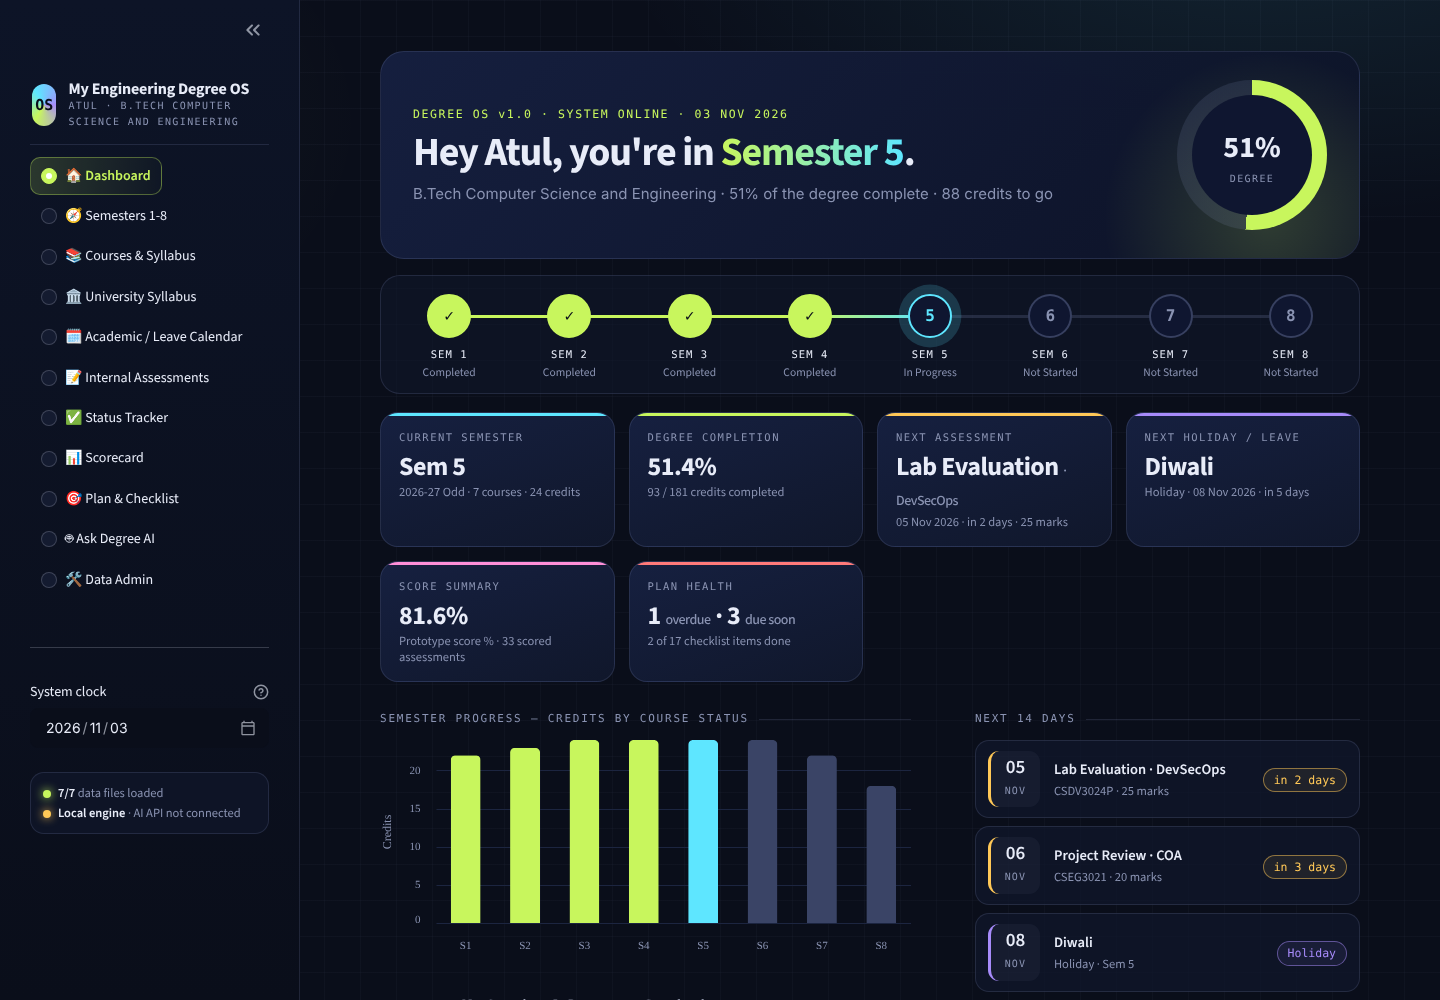
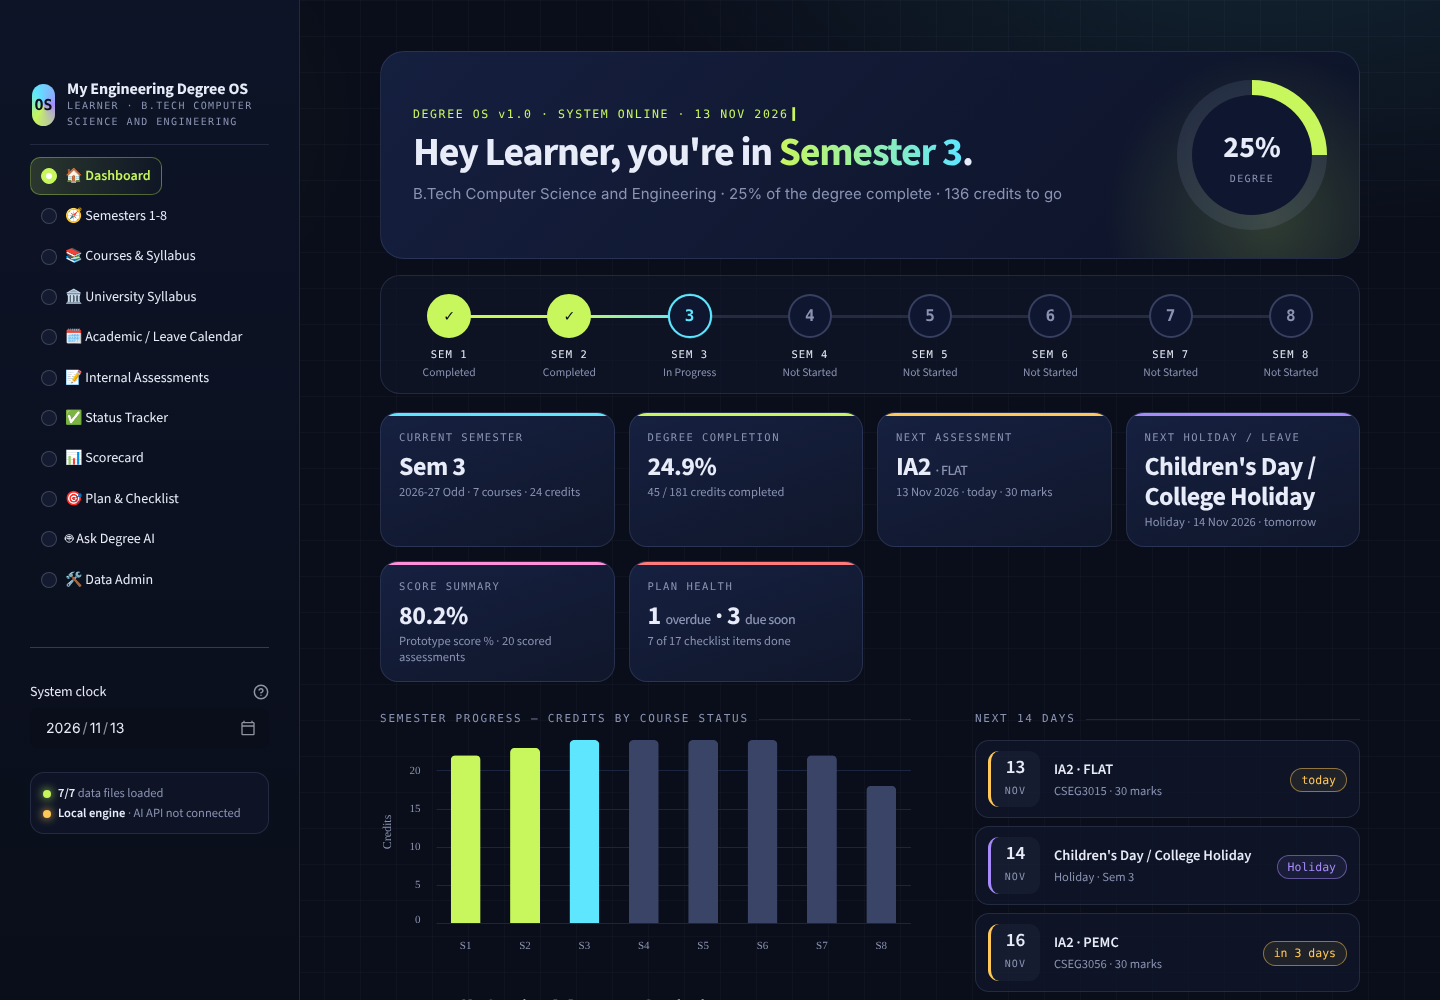
Set current semester to Semester 3
Sem 1-2 completed, Sem 3 in progress with current subjects (CNS, OOAD, PEMC,
FLAT, COA, DevSecOps Lab, Industry Project), Sem 4-8 not started. Calendar,
assessments, scores and checklist remapped; tests re-run.

Claude-Session: https://claude.ai/code/session_01FVvoqNJvPTr259d6cdte1m

diff --git a/app.py b/app.py
@@ -1277,9 +1277,9 @@ def rule_guard(ql: str) -> dict | None:
 
 def ans_help() -> dict:
     return {"text": "I'm **Degree AI** — I answer from your Degree OS data only. Try:\n"
-                    "- *What subjects are left in Sem 5?*\n- *When is my next IA?*\n- *Show my next holiday*\n"
+                    "- *What subjects are left in Sem 3?*\n- *When is my next IA?*\n- *Show my next holiday*\n"
                     "- *What topics are in FLAT?*\n- *What's the status of semester 6?*\n- *What's overdue in my checklist?*\n"
-                    "- *How are my scores in semester 4?*",
+                    "- *How are my scores in semester 2?*",
             "areas": ["General"]}
 
 
@@ -1518,7 +1518,7 @@ def degree_ai(q: str, history: list[dict]) -> dict:
 
 
 SUGGESTIONS = [
-    "What courses are still incomplete in Semester 5?",
+    "What courses are still incomplete in Semester 3?",
     "When is my next internal assessment?",
     "Show my next holiday",
     "What topics are in Data Structures?",

diff --git a/TESTING.md b/TESTING.md
@@ -1,6 +1,6 @@
 # Phase 7 — Test evidence log
 
-Run date: 03 Nov 2026 · Streamlit 1.66.1 · pandas 3.0.5 · Tested with `streamlit.testing.v1.AppTest` and headless Chrome.
+Run date: 13 Nov 2026 (re-run after switching the current semester to Semester 3) · Streamlit 1.66.1 · pandas 3.0.5 · Tested with `streamlit.testing.v1.AppTest` and headless Chrome.
 
 ## Every page once (no crashes)
 
@@ -15,8 +15,8 @@ Run date: 03 Nov 2026 · Streamlit 1.66.1 · pandas 3.0.5 · Tested with `stream
 |---|---|---|---|
 | Course status changed (DevSecOps Lab → Completed) → Status Tracker | Completed 0 · In Progress 7 | Completed 1 · In Progress 6 | ✅ |
 | New holiday added → Calendar | 9 holidays | 10, "Test Fest Holiday" visible | ✅ |
-| New score added (OOAD assignment 10/10) → Scorecard | Sem 5: 78.7%, 33 assessments | Sem 5: 79.4%, 34 assessments | ✅ |
-| Checklist item marked Done → summary | Done 2 · Overdue 1 | Done 3 · Overdue 0 | ✅ |
+| New score added (OOAD assignment 10/10) → Scorecard | Sem 3: 78.7%, 20 assessments | Sem 3: 79.4%, 21 assessments | ✅ |
+| Checklist item marked Done → summary | Done 7 · Overdue 1 | Done 8 · Overdue 0 | ✅ |
 | Course table changes with semester filter | Sem 1: MATH1028, PHYS1019… | Sem 3: CSEG2001, CSEG2002… | ✅ |
 | Semester 1–8 all selectable | — | — | ✅ |
 | Data Admin loads all 7 tables with validation | — | — | ✅ |
@@ -25,15 +25,15 @@ Run date: 03 Nov 2026 · Streamlit 1.66.1 · pandas 3.0.5 · Tested with `stream
 
 | Question | Answer (summary) | Data used |
 |---|---|---|
-| What courses are still incomplete in Semester 3? | All 6 courses completed | Courses |
-| What subjects are left in Sem 5? | 7 of 7 in progress, listed | Courses |
-| When is my next internal assessment? | Lab Evaluation — DevSecOps Lab, Thu 05 Nov 2026 (in 2 days) + next four | Assessments |
-| Show my next holiday | Diwali, Sun 08 Nov 2026 (in 5 days) | Calendar |
+| What courses are still incomplete in Semester 2? | All 7 courses completed | Courses |
+| What subjects are left in Sem 3? | 7 of 7 in progress, listed | Courses |
+| When is my next internal assessment? | IA2 — Formal Languages and Automata Theory, 13 Nov 2026 + next four | Assessments |
+| Show my next holiday | Children's Day / College Holiday, Sat 14 Nov 2026 | Calendar |
 | What topics are in Data Structures? | Arrays, Linked lists, Stacks, Queues, Trees, Graphs, Hashing, Sorting | Courses |
 | What topics are in FLAT? | DFA/NFA … Turing machines | Courses |
 | What's overdue in my checklist? | Submit lab record file (due 30 Oct) | Plan |
-| Status of semester 6 | Not Started, 0/24 credits, 7 courses | Semesters |
-| How are my scores in semester 4? | Prototype score 85.4% + per course | Scores |
+| Status of semester 4 | Not Started, 0/24 credits, 6 courses | Semesters |
+| How are my scores in semester 3? | Prototype score 78.7% + per course | Scores |
 | **What is my official university CGPA formula?** | **"I cannot verify that from the current Degree OS data."** + prototype % offered, labelled not-a-CGPA | Syllabus · 🛡 safe refusal |
 | **What is the minimum attendance requirement?** | **"I cannot verify that from the current Degree OS data."** | Syllabus · 🛡 safe refusal |
 | Write me a poem about compilers | "AI API not connected" message | — |

diff --git a/README.md b/README.md
@@ -47,7 +47,7 @@ python -m streamlit run app.py
 | `courses.csv` | Code, name, short name, credits, faculty, syllabus topics (`;`-separated), status |
 | `academic_calendar.csv` | Academic / Exam / Holiday / Leave events with academic_year + semester |
 | `assessments.csv` | IA1, IA2, Assignment, Lab Evaluation, Project Review, Mid/End Semester |
-| `scores.csv` | Marks and grades (4 completed semesters + Sem 5 mid-sems) |
+| `scores.csv` | Marks and grades (2 completed semesters + Sem 3 mid-sems) |
 | `plan_checklist.csv` | category, item, target_date, status, notes, scope (Semester / Degree) |
 | `university_syllabus.csv` | Programme fields + source/reference. Official CGPA formula and regulations are intentionally blank. |
 
